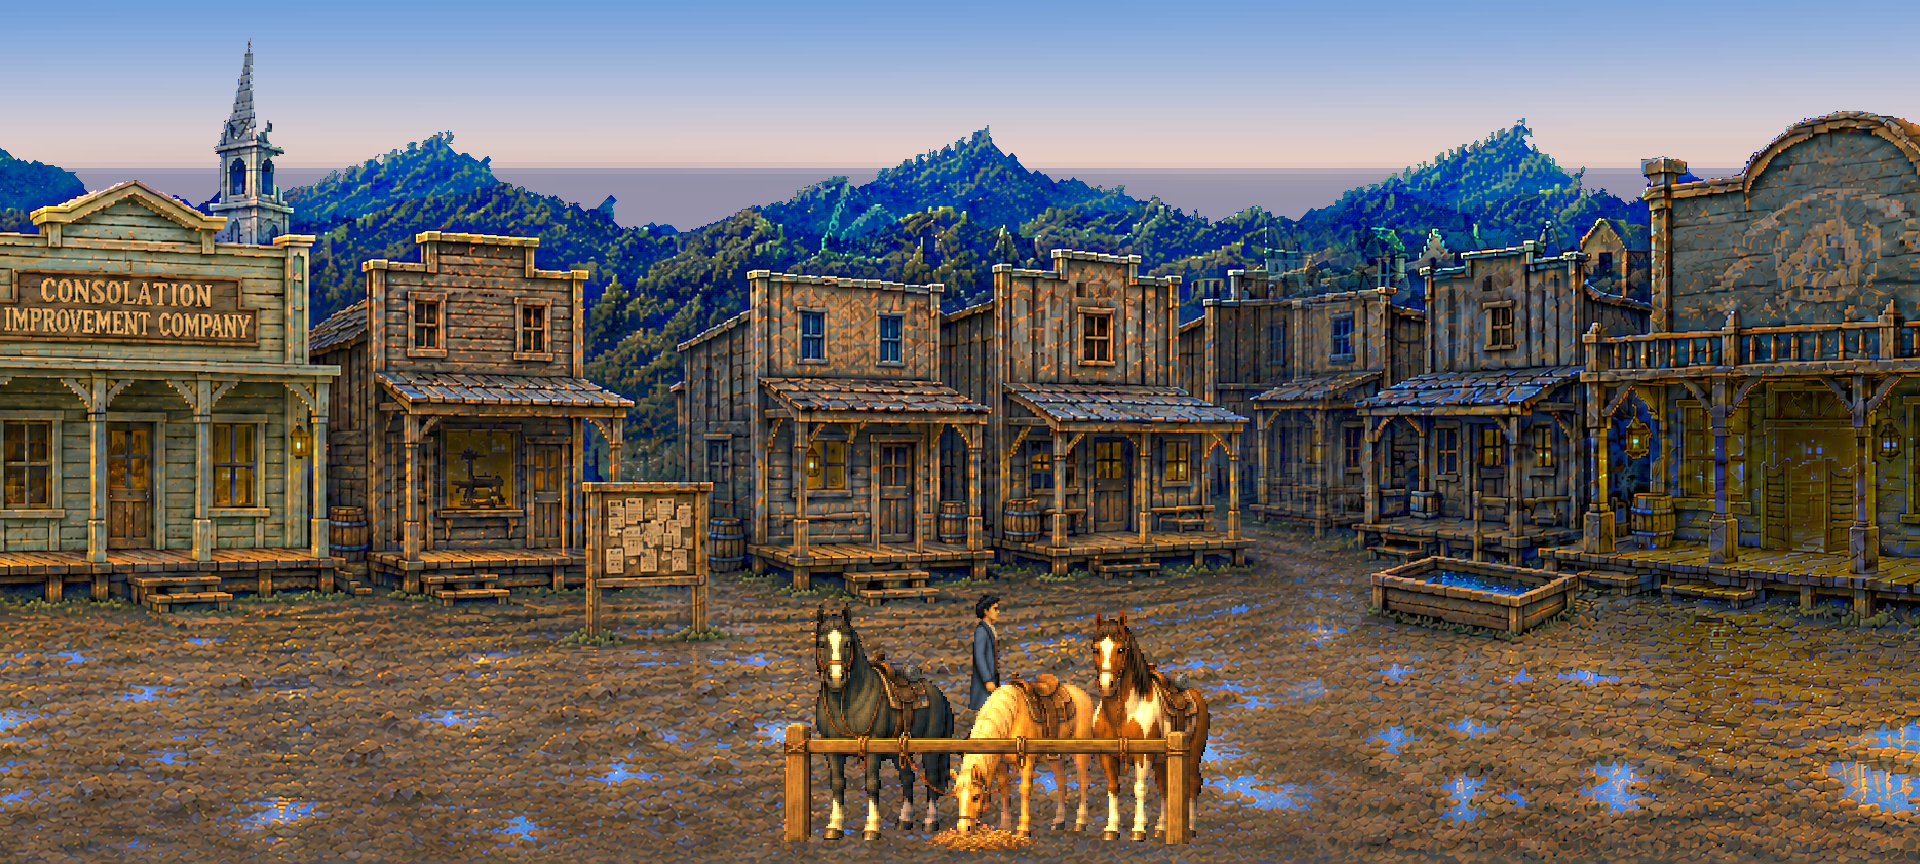
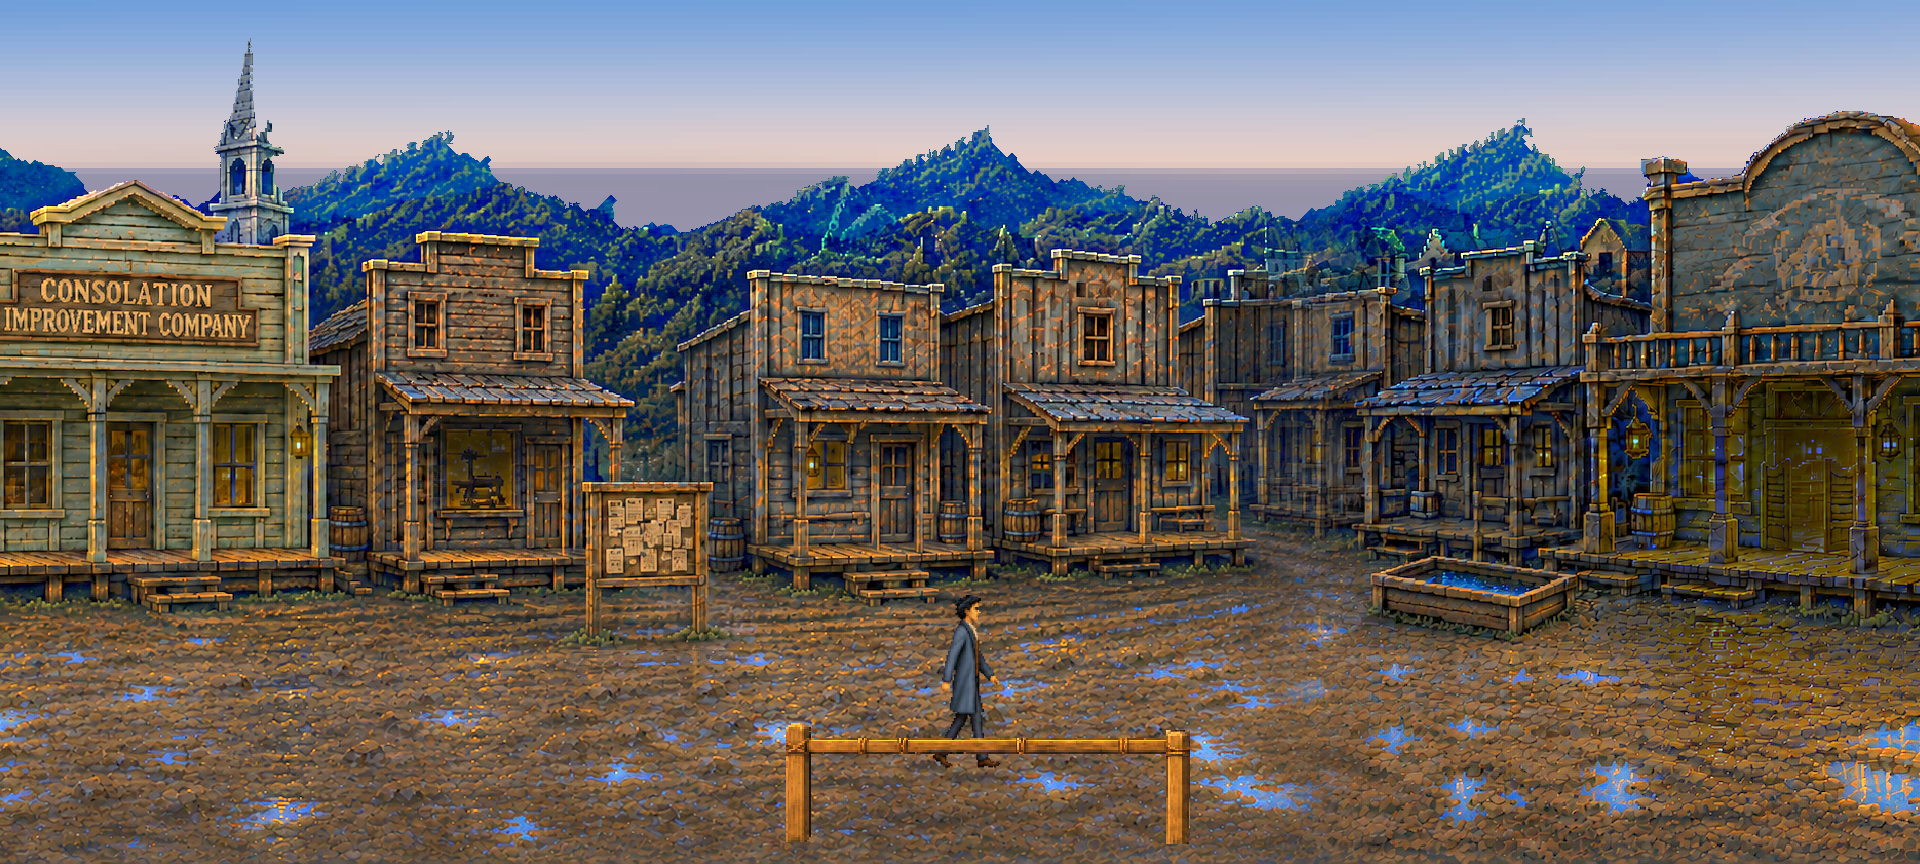
Hitching post: at dawn the horses are gone, the rail stands empty
Tyler: "At dawn I think the horses should all be gone. Just the hitching post
is there." Room 36 loses the horses' placement and gains the rail alone as a
prop: cut from the night rest frame (the rail is drawn in front of the
horses), at the engine's own scale for the group, relit to dawn
(tools/art/hitching-rail-dawn.py). The obstacle stays. tests/scenery.test.ts
holds it.

Claude-Session: https://claude.ai/code/session_01FXbCurjq3gWmZKUYv89gwi

Changed region(s): [[0.4062, 0.6875, 0.6562, 1.0]]

diff --git a/tests/scenery.test.ts b/tests/scenery.test.ts
@@ -2,8 +2,9 @@
  * SCENERY ANSWERS NOTHING (errata 181). Main Street's hitching rail and its
  * horses are drawn and move, but have no lines yet: the brief makes them
  * scenery until their LOOK and LISTEN lines are written. So the pointer passes
- * through them to the mud under them, in the night street and the dawn one,
- * and the hero walks around them, never through.
+ * through them to the mud under them, and the hero walks around them, never
+ * through. At dawn the horses are gone and the rail stands empty, a prop, and
+ * he still walks around it (Tyler: "Just the hitching post is there").
  */
 import assert from 'node:assert/strict';
 import { readFile } from 'node:fs/promises';
@@ -20,7 +21,20 @@ import { WalkBoxes } from '../engine/core/WalkBoxes.ts';
 const ROOT = resolve(fileURLToPath(new URL('.', import.meta.url)), '..');
 const fsReader: JsonReader = async (path) => JSON.parse(await readFile(resolve(ROOT, path), 'utf8'));
 
-for (const room of ['main_street', 'main_street_dawn']) {
+test('main_street_dawn: the horses are gone, and the rail stands empty', async () => {
+  const content = await loadContent(fsReader);
+  const state = new GameState(content, new MemoryStorage());
+  state.enterRoom('main_street_dawn');
+  const layer = new AmbientLayer(state);
+  layer.arrived();
+  assert.equal(layer.present.find((npc) => npc.id === 'hitching_horses'), undefined, 'no horses at dawn');
+  const rail = (state.room.props ?? []).find((prop) => prop.id === 'hitching_rail');
+  assert.ok(rail, 'the rail is a prop at dawn');
+  assert.deepEqual([rail.x, rail.y], [content.ambient.get('hitching_horses')!.x, content.ambient.get('hitching_horses')!.y],
+    'where the night rail stands');
+});
+
+for (const room of ['main_street']) {
   test(`${room}: the hitching horses are drawn there, and the pointer passes through them`, async () => {
     const content = await loadContent(fsReader);
     const state = new GameState(content, new MemoryStorage());
@@ -34,6 +48,9 @@ for (const room of ['main_street', 'main_street_dawn']) {
     assert.equal(state.targetAt(at.x, at.y)?.id, 'mud', 'the mud under them does');
   });
 
+}
+
+for (const room of ['main_street', 'main_street_dawn']) {
   test(`${room}: the hero walks around the hitching rail, never through it`, async () => {
     const content = await loadContent(fsReader);
     const room_ = content.rooms.get(room)!;

diff --git a/tools/art/hitching-rail-dawn.py b/tools/art/hitching-rail-dawn.py
@@ -1,0 +1,78 @@
+"""The hitching rail alone, at dawn, for Room 36 (errata 181). No image operation.
+
+Tyler, 2026-11-08: "At dawn I think the horses should all be gone. Just the
+hitching post is there." The riders have taken their horses; the rail stays.
+
+The rail is drawn in front of the horses, so its pixels in the night sheet's
+rest frame are the rail's own: the top rail between the posts and the two
+posts, taken by their rects (the rope loops that hung from the knots to the
+horses' bridles are left behind; the wraps on the rail stay). It is scaled by
+exactly the factor the engine draws the night group at -- the room's man at
+its feet times its stature, over its figureHeight, nearest-neighbour as the
+engine draws -- so the empty rail stands where the night rail stood, pixel for
+pixel. Then it is relit by the dawn plate's ratio to the night's over the
+ground it stands on, as tools/art/room36-dawn.py lights the street.
+
+Writes art/props/room-36-hitching-rail-dawn.png and prints the prop entry
+Room 36's annotation carries.
+
+usage: python3 tools/art/hitching-rail-dawn.py
+"""
+import json
+import os
+import subprocess
+
+import numpy as np
+from PIL import Image
+
+ROOT = os.path.dirname(os.path.dirname(os.path.dirname(os.path.abspath(__file__))))
+NPC = 'content/ambient/hitching-horses.json'
+NIGHT = 'art/backgrounds/room-02-main-street.png'
+DAWN = 'art/backgrounds/room-36-main-street-dawn.png'
+OUT = 'art/props/room-36-hitching-rail-dawn.png'
+# In the rest frame's own rows and columns.
+RAIL = (35, 234, 610, 259)     # the top rail between the posts
+LEFT_POST = (3, 205, 42, 403)
+RIGHT_POST = (605, 222, 643, 405)
+
+
+def man_at(room, x, y):
+    out = subprocess.check_output(['node', '--experimental-strip-types', '-e', f"""
+import('{ROOT}/engine/core/WalkBoxes.ts').then(({{WalkBoxes, heightIn}}) => {{
+  const fs = require('fs'); const m = JSON.parse(fs.readFileSync('{ROOT}/content/manifest.json','utf8'));
+  for (const p of m.rooms) {{ const r = JSON.parse(fs.readFileSync('{ROOT}/'+p,'utf8')); if (r.id !== '{room}') continue;
+    const n = new WalkBoxes(r.walkBoxes, () => true).nearest({x}, {y}); console.log(n ? heightIn(n.box, {y}) : 0); }}
+}});"""], stderr=subprocess.DEVNULL, cwd=ROOT).decode().strip()
+    return float(out)
+
+
+def main():
+    npc = json.load(open(os.path.join(ROOT, NPC)))
+    sprite = npc['sprite']
+    x, y, w, h = sprite['frames'][0]
+    rest = np.asarray(Image.open(os.path.join(ROOT, sprite['sheet'])).convert('RGBA').crop((x, y, x + w, y + h))).copy()
+    yy, xx = np.mgrid[0:h, 0:w]
+    inside = lambda r: (xx >= r[0]) & (xx < r[2]) & (yy >= r[1]) & (yy < r[3])
+    keep = (inside(RAIL) | inside(LEFT_POST) | inside(RIGHT_POST)) & (rest[..., 3] > 0)
+    rest[~keep] = 0
+    scale = man_at('main_street_dawn', npc['x'], npc['y']) * sprite['stature'] / sprite['figureHeight']
+    size = (round(w * scale), round(h * scale))
+    rail = Image.fromarray(rest, 'RGBA').resize(size, Image.NEAREST)
+    # Relight: the dawn plate over the night plate, on the ground the rail stands on.
+    left = round(npc['x'] - size[0] / 2)
+    ground = (slice(npc['y'] - size[1], 858), slice(left, left + size[0]))
+    night = np.asarray(Image.open(os.path.join(ROOT, NIGHT)).convert('RGB')).astype(float)[ground].reshape(-1, 3)
+    dawn = np.asarray(Image.open(os.path.join(ROOT, DAWN)).convert('RGB')).astype(float)[ground].reshape(-1, 3)
+    lit = night.sum(1) > 60
+    ratio = np.median(dawn[lit] / np.maximum(night[lit], 1), axis=0)
+    px = np.asarray(rail).astype(float)
+    px[..., :3] = np.clip(px[..., :3] * ratio, 0, 255)
+    os.makedirs(os.path.join(ROOT, os.path.dirname(OUT)), exist_ok=True)
+    Image.fromarray(px.round().astype(np.uint8), 'RGBA').save(os.path.join(ROOT, OUT))
+    prop = {'id': 'hitching_rail', 'sheet': OUT, 'x': npc['x'], 'y': npc['y'], 'frame': [0, 0, size[0], size[1]]}
+    print(OUT, size, 'scale', round(scale, 4), 'ratio', ratio.round(3))
+    print(json.dumps(prop))
+
+
+if __name__ == '__main__':
+    main()

diff --git a/docs/00-errata.md b/docs/00-errata.md
@@ -4909,13 +4909,18 @@ Tyler: "Pull main and read reference/hitching-post/brief.md. Do what it says: th
 - **The boundary men are talked to from their right now**, at 1940,668 facing left, still beside them at their own depth (Tyler's ruling of 2026-11-07). The full-sized paint's head covered 38% of him at the old place, 1610,668. `tests/staging-clear.test.ts` found it, and holds it.
 - **The rail is part of the sprite**, so it is depth-sorted with the horses. Thad passes behind them, and nothing passes in front, so no occlusion plane is needed.
 - **An obstacle in both streets.** `hitching_post`, [1329, 808, 401, 50], is the footprint of the hooves, hay and posts, with the ground behind it kept walkable (`keepsGroundAbove`), as the dog's is. Rooms 2 and 36 are recompiled.
-- **The day is Room 36.** Room 2 is night in every act (errata 64), and Main Street's only daylight is Room 36's dawn. The horses are there too, as a placement with their own sheet. `tools/art/hitching-post-dawn.py` relights the night sheet by the dawn plate's ratio to the night's over the ground they stand on.
+- **The day is Room 36.** Room 2 is night in every act (errata 64), and Main Street's only daylight is Room 36's dawn.
+  - **At dawn the horses are gone and the rail stands empty.** Tyler: "At dawn I think the horses should all be gone. Just the hitching post is there."
+  - The rail is drawn in front of the horses, so its pixels in the night rest frame are its own: the top rail and the two posts, with the wraps on the rail. The rope loops that hung to the horses' bridles are left behind.
+  - `tools/art/hitching-rail-dawn.py` cuts it, scales it by exactly the factor the engine draws the night group at (nearest-neighbour), and relights it by the dawn plate's ratio to the night's. It becomes a prop in Room 36 (`hitching_rail`, `art/props/room-36-hitching-rail-dawn.png`), on the night rail's own ground.
+  - The obstacle stays.
+  - `tests/scenery.test.ts` holds it: no horses at dawn, the rail where the night rail stands, and the ground under it not walkable.
 - **Scenery until its lines exist.** The brief says it has no lines and is not a hotspot.
   - A new field, `scenery`, keeps an ambient figure out of `npcAt`, so the pointer passes through the horses to the mud beneath.
   - When their LOOK and LISTEN lines are written in the documents, `scenery` goes and a hotspot is laid over them.
   - `tests/scenery.test.ts` holds both streets: the pointer passes through to the mud, and the ground under them is not walkable while the ground behind is. It fails with the field ignored.
 - **The lesson is a doc 55 §8 row:** prefer a frame the generator drew whole to a stitched one, and look at every frame whole, at 2×, in the game, counting legs and heads, before anyone else sees it.
-- **Shown:** `renders/room-02-main-street-hitching-post-night-thad-passing.png` and `renders/room-36-main-street-dawn-hitching-post-thad-passing.png`. Thad walks past behind the horses, captured mid-walk in the game.
+- **Shown:** `renders/room-02-main-street-hitching-post-night-thad-passing.png` and `renders/room-36-main-street-dawn-hitching-post-thad-passing.png`. Thad walks past behind the horses, captured mid-walk in the game; at dawn, past the empty rail.
 - **Waiting:**
   - Tyler's eye on the full-sized paint.
   - Claude writes their LOOK and LISTEN lines in the documents, and then makes them clickable.
